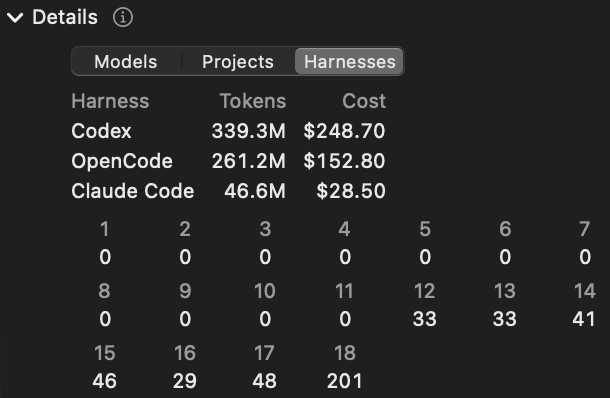
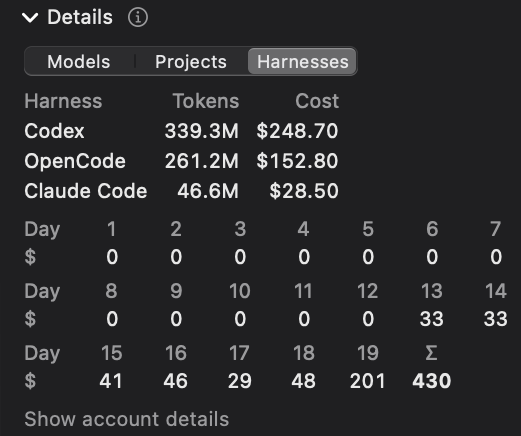
feat: screenshots and copy for the 0.6.0 dropdown (#1)
Recaptured all eleven shots from the demo build: the minimal dropdown
(spec 025), one budget Details with the day row sums and the pinned
footer (spec 026) and the headline window switch (spec 027, the 5h tag
in the menu bar and the marked row). The Plan limits card mentions the
switch, the Pace card describes the tick and the orange note, and the
alt texts match the new shots. The social card shows the new bar. A plan
document is reformatted so the Prettier check passes again.

Assisted-By: 🤖 Claude Code

diff --git a/src/data/features.ts b/src/data/features.ts
@@ -14,15 +14,15 @@ export const featureRows: { label: string; features: Feature[] }[] = [
     features: [
       {
         title: 'Plan limits',
-        body: 'Claude Pro and Max, and Codex on a ChatGPT plan: every window with its reset time, live from the provider, so other machines count too.',
+        body: 'Claude Pro and Max, and Codex on a ChatGPT plan: every window with its reset time, live from the provider, so other machines count too. Click a window to show it in the menu bar.',
         stem: 'plan-limits',
-        alt: 'A Claude Max section with 5-hour, 7-day and model limits and their reset times',
+        alt: 'A Claude Max section with 5-hour, 7-day and Fable limits and their reset times, the 5-hour window marked as the one shown in the menu bar',
       },
       {
         title: 'Pace',
-        body: 'A small meter shows whether you are on pace, behind, or about to run out before the reset. <code>↑</code> marks an entry that burns fast.',
+        body: 'A tick on each bar marks even use. When you run ahead, an orange note says by how much and when you run out before the reset. <code>↑</code> marks an entry that burns fast.',
         stem: 'pace',
-        alt: 'The pace meter tooltip with the run-out time',
+        alt: 'A 7-day limit at 70% with its tick and an orange note: 20% ahead, burning fast, runs out in 1d 12h',
       },
       {
         title: 'Alerts and colors',
@@ -39,7 +39,7 @@ export const featureRows: { label: string; features: Feature[] }[] = [
         title: 'Budgets you set',
         body: 'Pay-per-token spend on Vertex or the OpenAI API, against your own weekly or monthly budget.',
         stem: 'budget',
-        alt: 'A Vertex account with its spend against a monthly budget',
+        alt: 'A company budget with 430 of 500 dollars spent this month and an orange pace note',
       },
       {
         title: 'Shared budgets',
@@ -62,7 +62,7 @@ export const featureRows: { label: string; features: Feature[] }[] = [
         title: 'Details on demand',
         body: 'Tokens per model, project and harness, with a per-day trend, folded away until you need them.',
         stem: 'details',
-        alt: 'The details table with tokens per model and a per-day trend',
+        alt: 'The details table with tokens per model and the per-day row with its sum',
       },
       {
         title: 'Your bar, your way',

diff --git a/docs/superpowers/plans/2026-10-18-positioning-refresh-phase1.md b/docs/superpowers/plans/2026-10-18-positioning-refresh-phase1.md
@@ -32,11 +32,13 @@
 ### Task 1: Hero copy, metadata description, drop "signed and notarized"
 
 **Files:**
+
 - Modify: `src/components/agenttacho/Hero.astro` (eyebrow, H1, tagline, meta line)
 - Modify: `src/config.yaml` (`metadata.description`)
 - Test: `tests/page.test.ts`
 
 **Interfaces:**
+
 - Produces: the visible strings later tasks and tests rely on — eyebrow `Budgets and limits for coding agents`; headline lines `One glance.` and `Every account.`; tagline `See what's left and whether it lasts to the reset, across all your models and accounts, including several on the same provider.`
 
 - [ ] **Step 1: Update the page test to the new hero copy**
@@ -88,11 +90,13 @@ git commit -m "feat: lead the hero on budgets and accounts"
 ### Task 2: Comparison flip, intro rewrite, remove the "one line" row
 
 **Files:**
+
 - Modify: `src/data/comparison.ts` (two row labels + values, remove one row)
 - Modify: `src/components/agenttacho/Compare.astro` (intro paragraph)
 - Test: `tests/page.test.ts`
 
 **Interfaces:**
+
 - Consumes: `comparison.rows` / `Compare.astro`'s existing render (`true` -> check icon, `false` -> minus icon, string -> text).
 - Produces: comparison rows labelled `No browser cookies` and `No telemetry` where a checkmark means the good thing; no `Menu bar` / "one line" row.
 
@@ -141,10 +145,12 @@ git commit -m "feat: comparison leads on one view, not one line"
 ### Task 3: Add the "Everything in one view" comparison row (verified facts)
 
 **Files:**
+
 - Modify: `src/data/comparison.ts` (new row + `checked` date)
 - Test: `tests/page.test.ts`
 
 **Interfaces:**
+
 - Consumes: the five-column order `['AgentTacho', 'CodexBar', 'Claude Usage Tracker', 'ClaudeBar', 'ccusage']` from `comparison.columns`.
 - Produces: a row labelled `Everything in one view`.
 
@@ -186,10 +192,12 @@ git commit -m "feat: comparison row for one consolidated view"
 ### Task 4: Regenerate the social card
 
 **Files:**
+
 - Modify: `scripts/make-og.sh` (the baked headline and sub-text)
 - Regenerate: `src/assets/images/og.png`
 
 **Interfaces:**
+
 - Consumes: the hero copy from Task 1 (the card mirrors the page).
 
 - [ ] **Step 1: Update the text baked into `make-og.sh`**
